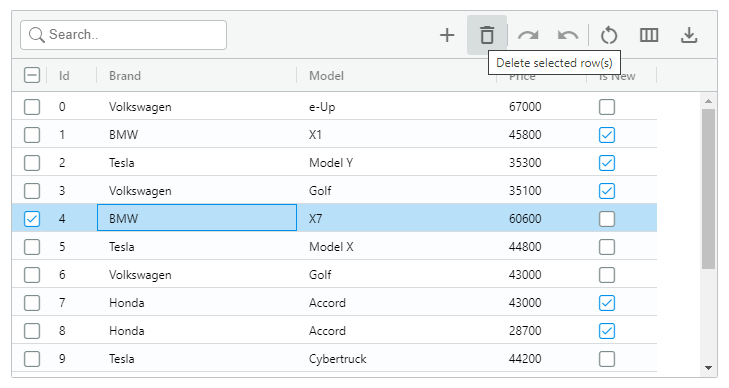
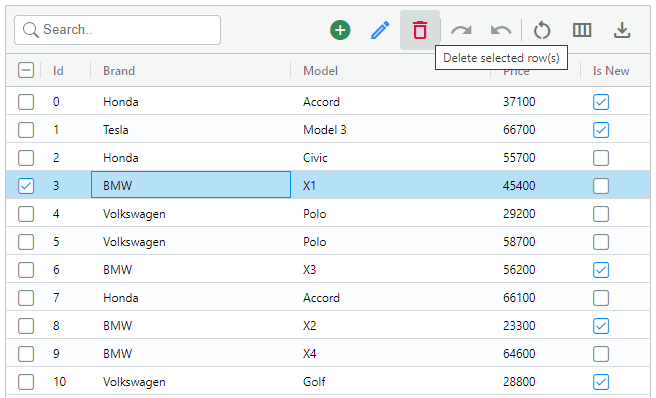
chore: add unused color input on AgGridToolbarAction

Changed region(s): [[0.0, 0.0, 1.0, 1.0], [0.7012, 0.8351, 0.7622, 0.866], [0.4268, 0.3402, 0.4573, 0.3711]]

diff --git a/projects/expansion/ag-grid-angular/src/lib/ag-grid-expansion/ag-grid-expansion.stories.ts b/projects/expansion/ag-grid-angular/src/lib/ag-grid-expansion/ag-grid-expansion.stories.ts
@@ -5,22 +5,35 @@ import {
   AgGridExtensionComponent,
   AgGridToolbarAction,
   actionsSets,
-} from '../public-api';
-import { gridOptions } from './story-helpers/grid-options';
+} from '../../public-api';
+import { gridOptions } from '../../stories/story-helpers/grid-options';
 
 const actions: AgGridToolbarAction[] = [
   {
     clickFn: ({ api }) => {
-      api.applyTransaction({ add: [{}] });
+      const data = { id: Number((Math.random() * 1000).toFixed(0)) };
+      const transaction = api.applyTransaction({ add: [data] });
+      api.flashCells({ rowNodes: transaction?.add });
     },
-    icon: 'add',
+    color: 'seagreen',
+    icon: 'add_circle',
     tooltip: 'Add new row',
+  },
+  {
+    clickFn: () => {
+      alert('Edit action clicked');
+    },
+    color: 'dodgerblue',
+    disabled: true,
+    icon: 'edit',
+    tooltip: 'Edit',
   },
   {
     clickFn: ({ api }) => {
       const rows = api.getSelectedRows();
       api.applyTransaction({ remove: rows });
     },
+    color: 'crimson',
     disabled: true,
     icon: 'delete',
     tooltip: 'Delete selected row(s)',
@@ -43,7 +56,6 @@ const meta: Meta<AgGridExtensionComponent> = {
     return {
       props: {
         ...args,
-        actions,
         gridOptions,
       },
       template: `
@@ -89,7 +101,6 @@ export const ContentProjections: Story = {
   render: (args) => ({
     props: {
       ...args,
-      actions,
       gridOptions,
     },
     template: `

diff --git a/projects/expansion/ag-grid-angular/src/stories/story-helpers/grid-options.ts b/projects/expansion/ag-grid-angular/src/stories/story-helpers/grid-options.ts
@@ -23,12 +23,12 @@ gridOptions.onSelectionChanged = (event: AgGridEvent<any, AgGridContext>) => {
   const { api, context } = event;
   const nodes = api.getSelectedNodes();
   const deleteAction = context.actions?.find(({ icon }) => icon === 'delete');
+  const editAction = context.actions?.find(({ icon }) => icon === 'edit');
   if (deleteAction) {
-    if (nodes.length) {
-      deleteAction.disabled = false;
-    } else {
-      deleteAction.disabled = true;
-    }
+    deleteAction.disabled = nodes.length === 0;
+  }
+  if (editAction) {
+    editAction.disabled = nodes.length === 0;
   }
 };
 gridOptions.onCellValueChanged = (event: AgGridEvent<any, AgGridContext>) => {
@@ -36,17 +36,9 @@ gridOptions.onCellValueChanged = (event: AgGridEvent<any, AgGridContext>) => {
   const redoAction = context.actions?.find(({ icon }) => icon === 'redo');
   const undoAction = context.actions?.find(({ icon }) => icon === 'undo');
   if (redoAction) {
-    if (api.getCurrentRedoSize()) {
-      redoAction.disabled = false;
-    } else {
-      redoAction.disabled = true;
-    }
+    redoAction.disabled = api.getCurrentRedoSize() === 0;
   }
   if (undoAction) {
-    if (api.getCurrentUndoSize()) {
-      undoAction.disabled = false;
-    } else {
-      undoAction.disabled = true;
-    }
+    undoAction.disabled = api.getCurrentUndoSize() === 0;
   }
 };

diff --git a/projects/expansion/ag-grid-angular/src/lib/ag-grid-expansion/components/ag-grid-toolbar-action/ag-grid-toolbar-action.component.html b/projects/expansion/ag-grid-angular/src/lib/ag-grid-expansion/components/ag-grid-toolbar-action/ag-grid-toolbar-action.component.html
@@ -2,7 +2,7 @@
   class="toolbar-action material-icons-outlined"
   [class.disabled]="disabled"
   [id]="id"
-  [style.color]="color"
+  [style.color]="disabled ? '' : color"
   [title]="tooltip"
 >
   {{ icon }}<ng-content></ng-content>
